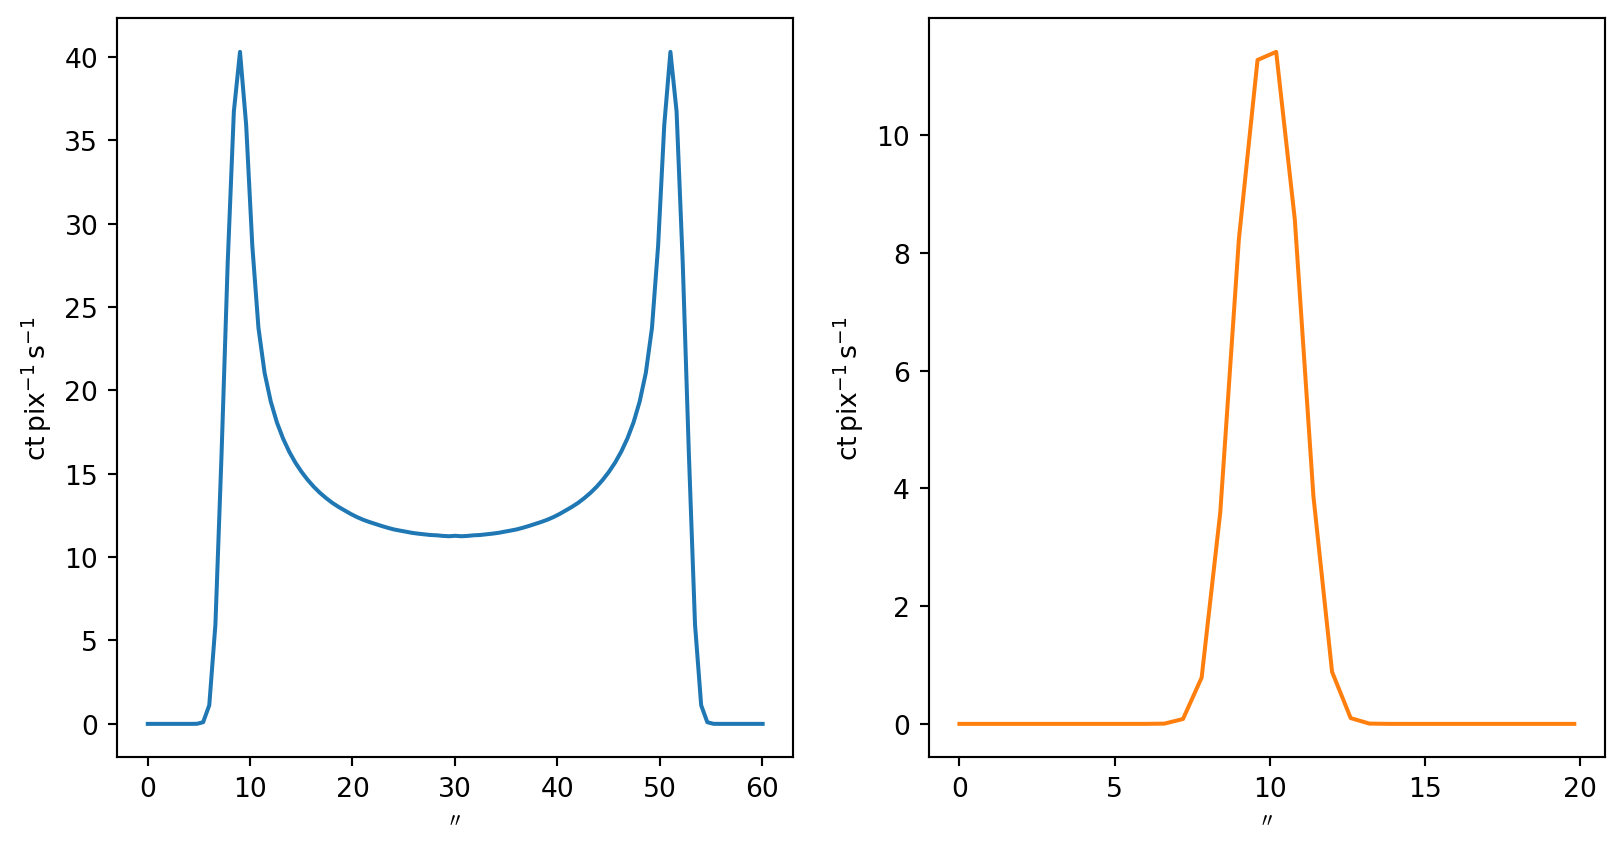
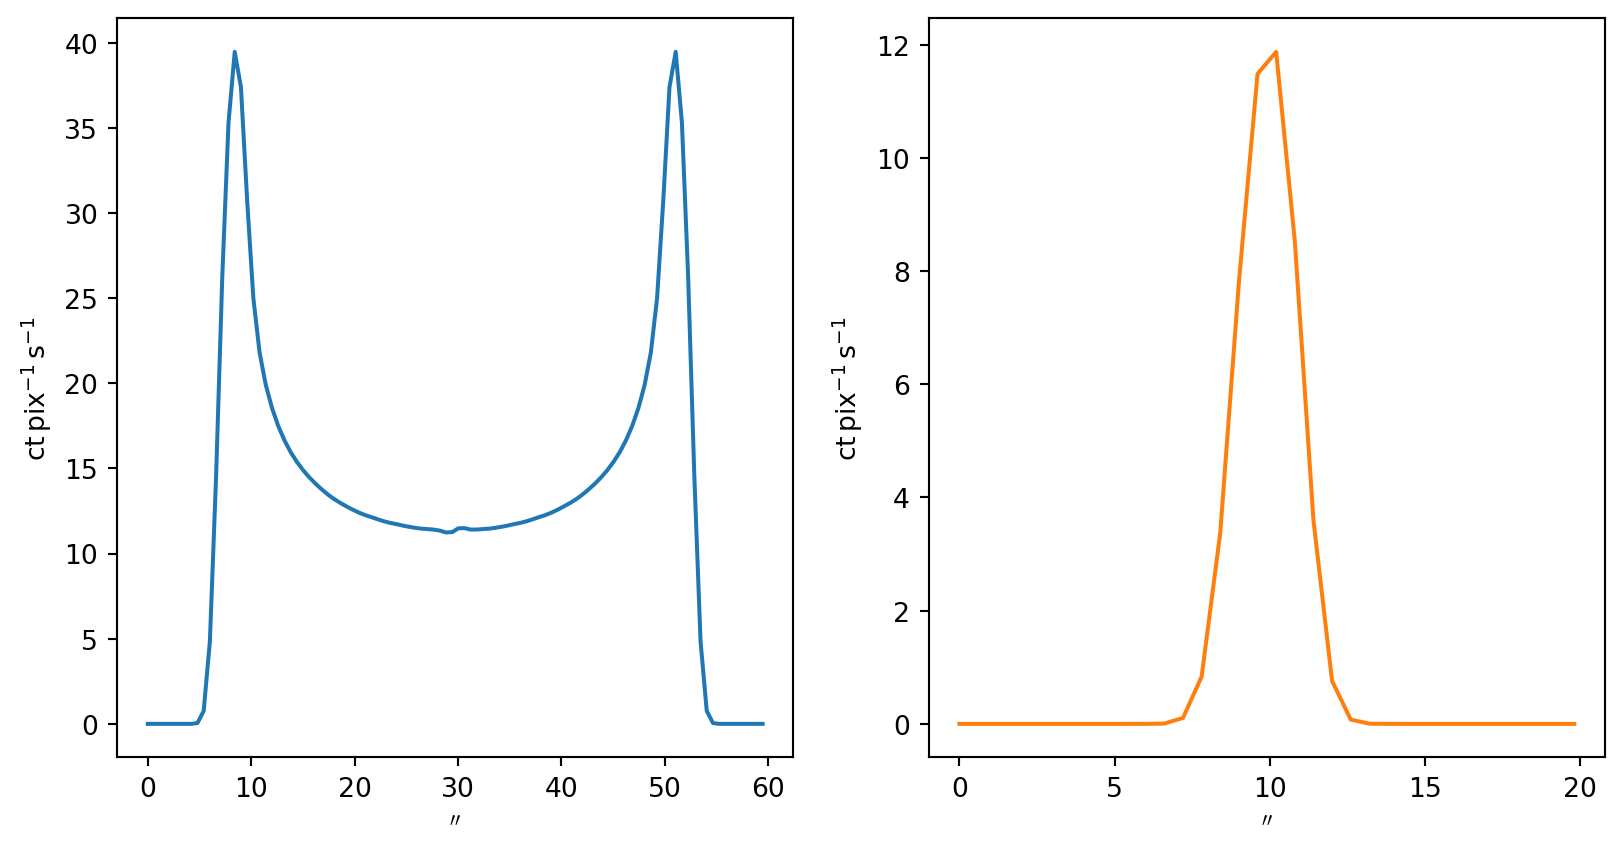
Built site for gh-pages

diff --git a/index.html b/index.html
@@ -542,10 +542,10 @@ I \approx \frac{1}{A_{\mathrm{pix}}}\sum_sA_s\delta_s\varepsilon_s(n,T)
 </div>
 <div class="cell fragment" data-execution_count="3">
 <div class="cell-output cell-output-stdout">
-<pre><code>&lt;SkyCoord (Heliocentric: obstime=2024-04-03 15:00:06.033637, observer=&lt;HeliographicStonyhurst Coordinate (obstime=2024-04-03 15:00:06.033637, rsun=695700.0 km): (lon, lat, radius) in (deg, deg, AU)
+<pre><code>&lt;SkyCoord (Heliocentric: obstime=2024-04-03 15:02:43.614007, observer=&lt;HeliographicStonyhurst Coordinate (obstime=2024-04-03 15:02:43.614007, rsun=695700.0 km): (lon, lat, radius) in (deg, deg, AU)
     (0., 0., 1.)&gt;): (x, y, z) in Mm
-    [(-15.5242241 , 0.60396071, 695.7       ),
-     (-15.52414734, 0.60396071, 695.74881953)]&gt;</code></pre>
+    [(-15.31694891, -0.13318253, 695.7      ),
+     (-15.31687318, -0.13318253, 695.7481677)]&gt;</code></pre>
 </div>
 </div>
 <div class="cell" data-execution_count="4">
@@ -577,10 +577,10 @@ I \approx \frac{1}{A_{\mathrm{pix}}}\sum_sA_s\delta_s\varepsilon_s(n,T)
 </div>
 <div class="cell fragment" data-execution_count="5">
 <div class="cell-output cell-output-stdout">
-<pre><code>[2657162.95812339 2657162.95812339 2657162.95812339 2657162.95812339
- 2657162.95812339] K
-[1.71423566e+09 1.71423566e+09 1.71423566e+09 1.71423566e+09
- 1.71423566e+09] 1 / cm3</code></pre>
+<pre><code>[2636831.60572369 2636831.60572369 2636831.60572369 2636831.60572369
+ 2636831.60572369] K
+[1.71094708e+09 1.71094708e+09 1.71094708e+09 1.71094708e+09
+ 1.71094708e+09] 1 / cm3</code></pre>
 </div>
 </div>
 <div class="cell" data-execution_count="6">
@@ -592,7 +592,7 @@ I \approx \frac{1}{A_{\mathrm{pix}}}\sum_sA_s\delta_s\varepsilon_s(n,T)
 <div class="cell-output cell-output-display">
 <div class="quarto-figure quarto-figure-center">
 <figure>
-<p><img data-src="slides_files/figure-revealjs/cell-7-output-1.png" width="732" height="454"></p>
+<p><img data-src="slides_files/figure-revealjs/cell-7-output-1.png" width="724" height="454"></p>
 </figure>
 </div>
 </div>
@@ -658,7 +658,7 @@ I \approx \frac{1}{A_{\mathrm{pix}}}\sum_sA_s\delta_s\varepsilon_s(n,T)
 <div class="cell-output cell-output-display">
 <div class="quarto-figure quarto-figure-center">
 <figure>
-<p><img data-src="slides_files/figure-revealjs/cell-8-output-1.png" width="753" height="408"></p>
+<p><img data-src="slides_files/figure-revealjs/cell-8-output-1.png" width="753" height="407"></p>
 </figure>
 </div>
 </div>
@@ -670,7 +670,7 @@ I \approx \frac{1}{A_{\mathrm{pix}}}\sum_sA_s\delta_s\varepsilon_s(n,T)
 <div class="cell-output cell-output-display">
 <div class="quarto-figure quarto-figure-center">
 <figure>
-<p><img data-src="slides_files/figure-revealjs/cell-9-output-1.png" width="820" height="339"></p>
+<p><img data-src="slides_files/figure-revealjs/cell-9-output-1.png" width="820" height="337"></p>
 </figure>
 </div>
 </div>
@@ -699,7 +699,7 @@ I \approx \frac{1}{A_{\mathrm{pix}}}\sum_sA_s\delta_s\varepsilon_s(n,T)
 <div class="cell-output cell-output-display">
 <div class="quarto-figure quarto-figure-center">
 <figure>
-<p><img data-src="slides_files/figure-revealjs/cell-11-output-1.png" width="770" height="404"></p>
+<p><img data-src="slides_files/figure-revealjs/cell-11-output-1.png" width="770" height="408"></p>
 </figure>
 </div>
 </div>

diff --git a/slides.html b/slides.html
@@ -542,10 +542,10 @@ I \approx \frac{1}{A_{\mathrm{pix}}}\sum_sA_s\delta_s\varepsilon_s(n,T)
 </div>
 <div class="cell fragment" data-execution_count="3">
 <div class="cell-output cell-output-stdout">
-<pre><code>&lt;SkyCoord (Heliocentric: obstime=2024-04-03 15:00:06.033637, observer=&lt;HeliographicStonyhurst Coordinate (obstime=2024-04-03 15:00:06.033637, rsun=695700.0 km): (lon, lat, radius) in (deg, deg, AU)
+<pre><code>&lt;SkyCoord (Heliocentric: obstime=2024-04-03 15:02:43.614007, observer=&lt;HeliographicStonyhurst Coordinate (obstime=2024-04-03 15:02:43.614007, rsun=695700.0 km): (lon, lat, radius) in (deg, deg, AU)
     (0., 0., 1.)&gt;): (x, y, z) in Mm
-    [(-15.5242241 , 0.60396071, 695.7       ),
-     (-15.52414734, 0.60396071, 695.74881953)]&gt;</code></pre>
+    [(-15.31694891, -0.13318253, 695.7      ),
+     (-15.31687318, -0.13318253, 695.7481677)]&gt;</code></pre>
 </div>
 </div>
 <div class="cell" data-execution_count="4">
@@ -577,10 +577,10 @@ I \approx \frac{1}{A_{\mathrm{pix}}}\sum_sA_s\delta_s\varepsilon_s(n,T)
 </div>
 <div class="cell fragment" data-execution_count="5">
 <div class="cell-output cell-output-stdout">
-<pre><code>[2657162.95812339 2657162.95812339 2657162.95812339 2657162.95812339
- 2657162.95812339] K
-[1.71423566e+09 1.71423566e+09 1.71423566e+09 1.71423566e+09
- 1.71423566e+09] 1 / cm3</code></pre>
+<pre><code>[2636831.60572369 2636831.60572369 2636831.60572369 2636831.60572369
+ 2636831.60572369] K
+[1.71094708e+09 1.71094708e+09 1.71094708e+09 1.71094708e+09
+ 1.71094708e+09] 1 / cm3</code></pre>
 </div>
 </div>
 <div class="cell" data-execution_count="6">
@@ -592,7 +592,7 @@ I \approx \frac{1}{A_{\mathrm{pix}}}\sum_sA_s\delta_s\varepsilon_s(n,T)
 <div class="cell-output cell-output-display">
 <div class="quarto-figure quarto-figure-center">
 <figure>
-<p><img data-src="slides_files/figure-revealjs/cell-7-output-1.png" width="732" height="454"></p>
+<p><img data-src="slides_files/figure-revealjs/cell-7-output-1.png" width="724" height="454"></p>
 </figure>
 </div>
 </div>
@@ -658,7 +658,7 @@ I \approx \frac{1}{A_{\mathrm{pix}}}\sum_sA_s\delta_s\varepsilon_s(n,T)
 <div class="cell-output cell-output-display">
 <div class="quarto-figure quarto-figure-center">
 <figure>
-<p><img data-src="slides_files/figure-revealjs/cell-8-output-1.png" width="753" height="408"></p>
+<p><img data-src="slides_files/figure-revealjs/cell-8-output-1.png" width="753" height="407"></p>
 </figure>
 </div>
 </div>
@@ -670,7 +670,7 @@ I \approx \frac{1}{A_{\mathrm{pix}}}\sum_sA_s\delta_s\varepsilon_s(n,T)
 <div class="cell-output cell-output-display">
 <div class="quarto-figure quarto-figure-center">
 <figure>
-<p><img data-src="slides_files/figure-revealjs/cell-9-output-1.png" width="820" height="339"></p>
+<p><img data-src="slides_files/figure-revealjs/cell-9-output-1.png" width="820" height="337"></p>
 </figure>
 </div>
 </div>
@@ -699,7 +699,7 @@ I \approx \frac{1}{A_{\mathrm{pix}}}\sum_sA_s\delta_s\varepsilon_s(n,T)
 <div class="cell-output cell-output-display">
 <div class="quarto-figure quarto-figure-center">
 <figure>
-<p><img data-src="slides_files/figure-revealjs/cell-11-output-1.png" width="770" height="404"></p>
+<p><img data-src="slides_files/figure-revealjs/cell-11-output-1.png" width="770" height="408"></p>
 </figure>
 </div>
 </div>
